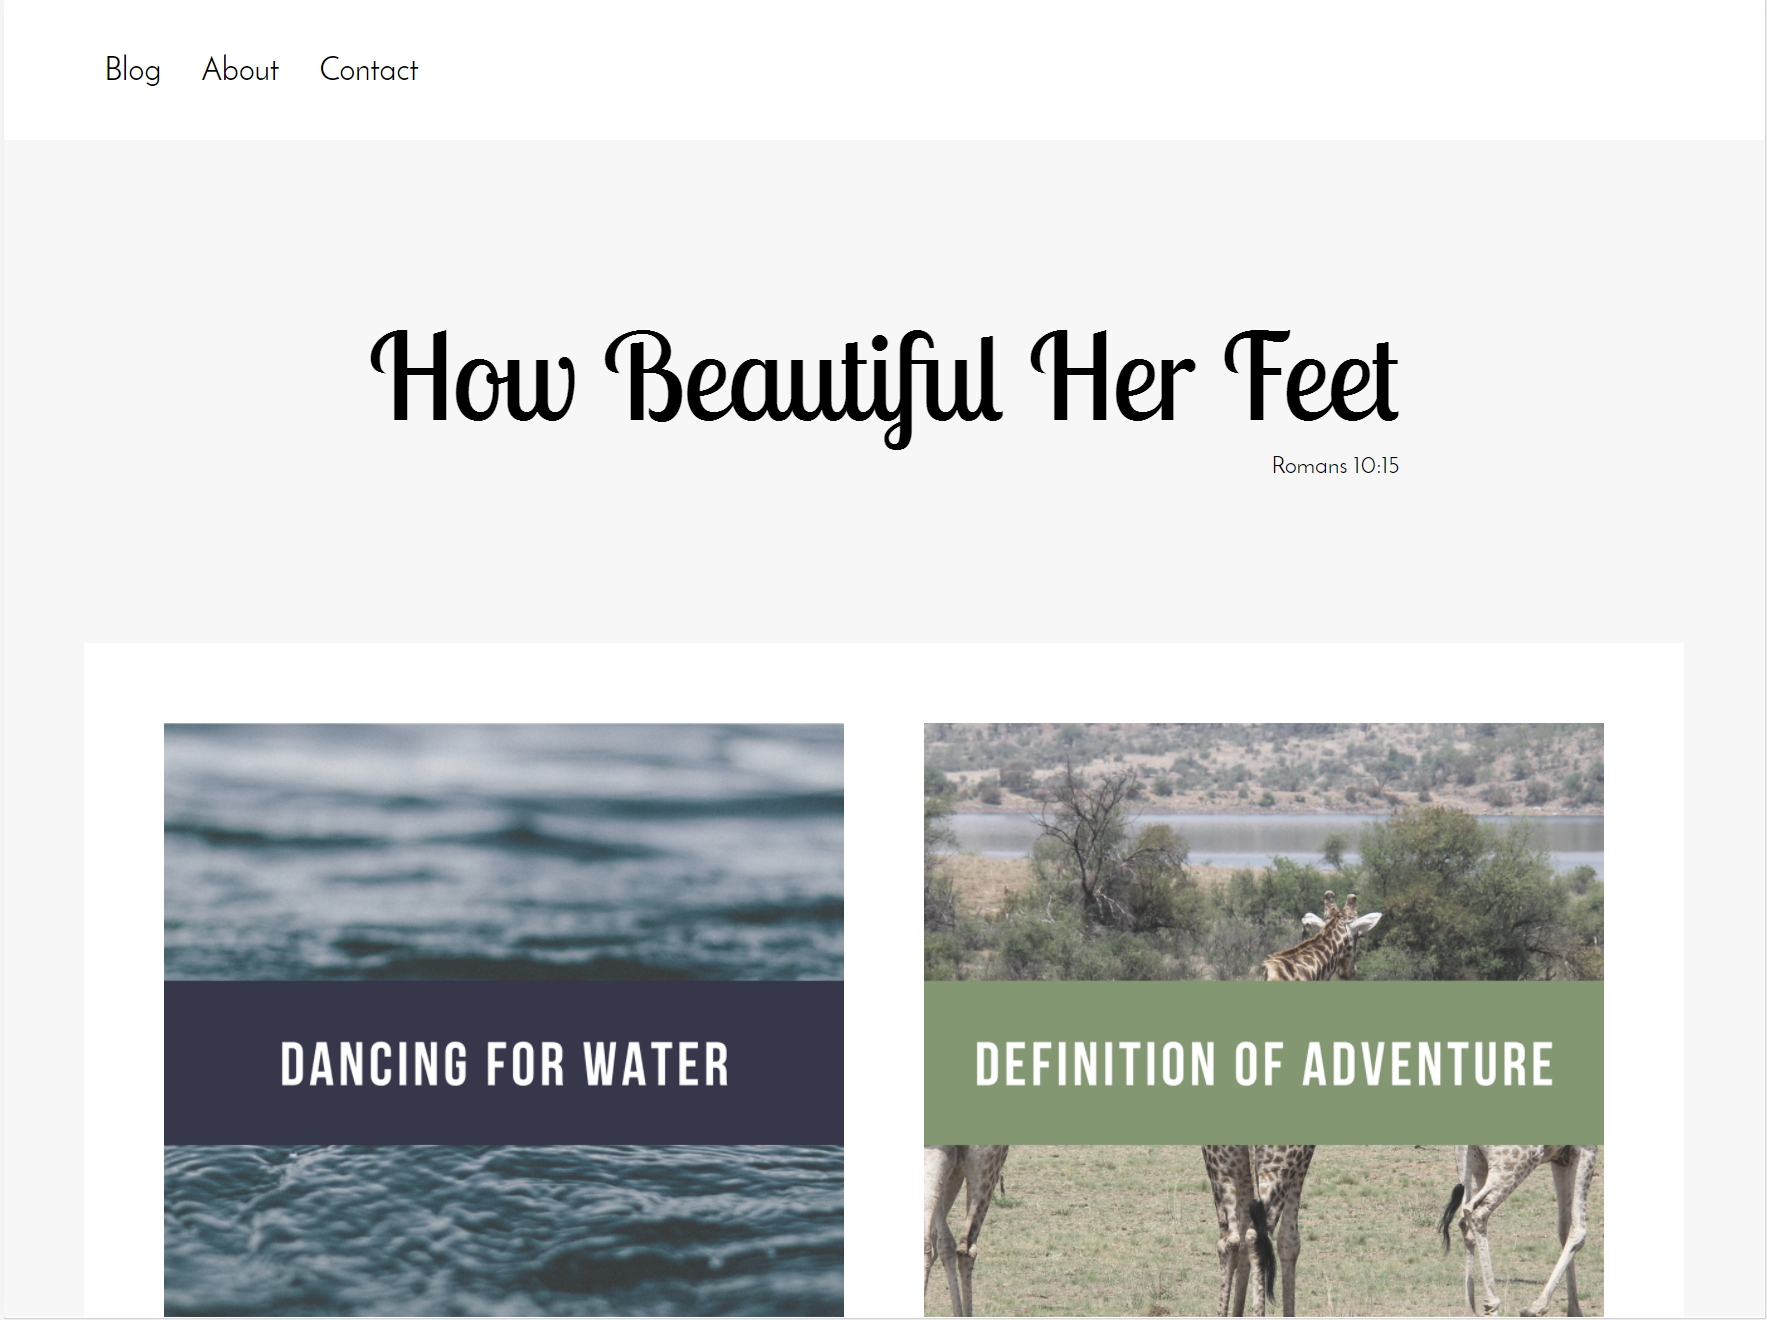
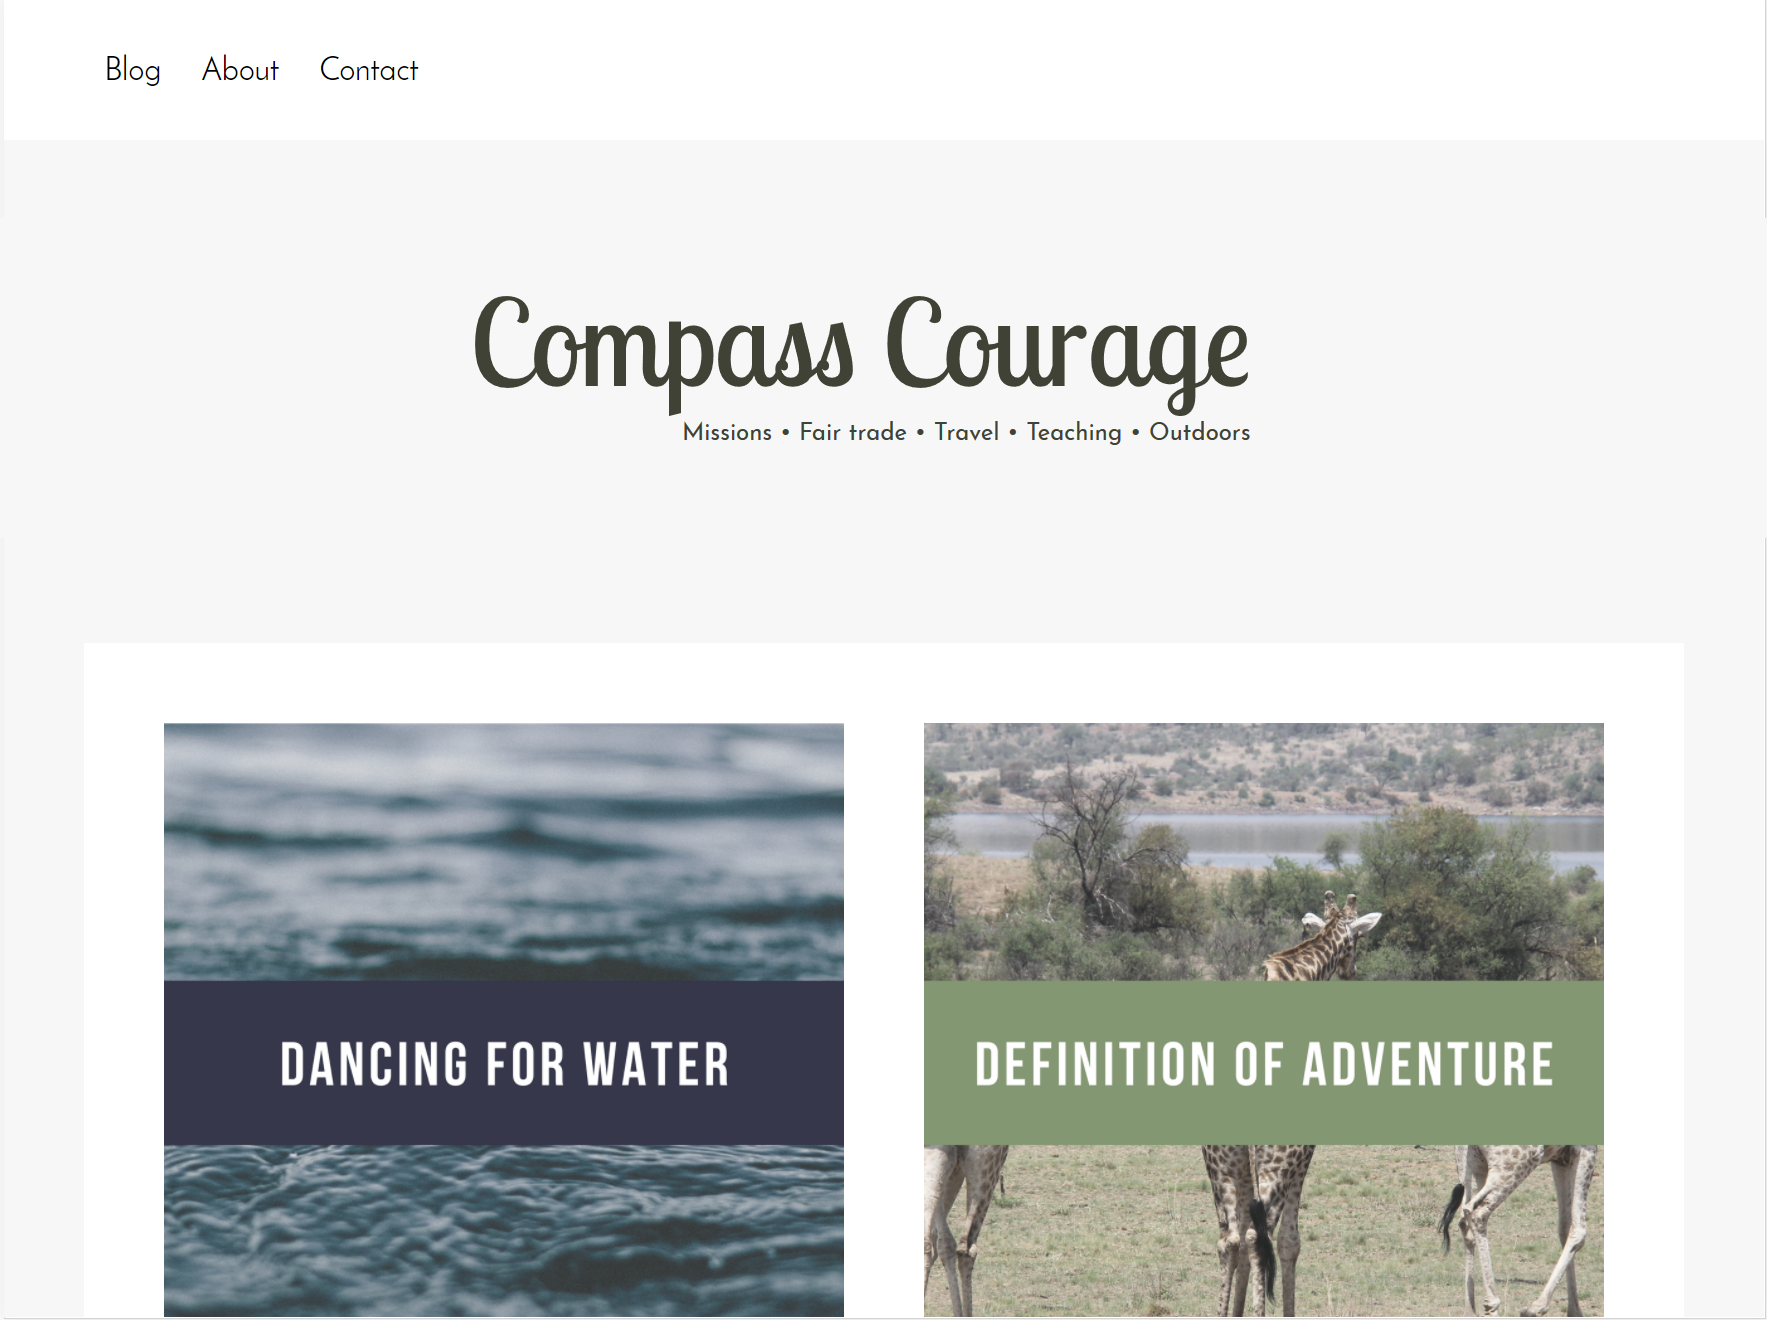
update theme name and screenshot.

Changed region(s): [[0.1868, 0.2174, 0.8093, 0.3727], [0.996, 0.1864, 1.0, 0.4038]]

diff --git a/README.md b/README.md
@@ -1,5 +1,5 @@
-# How Beautiful Her Feet
+# Compass Courage (WordPress Theme)
 
-A custom WordPress theme developed specifically for [HowBeautifulHerFeet.com](http://howbeautifulherfeet.com/).
+A custom WordPress theme developed specifically for [CompassCourage.com](http://compasscourage.com/).
 
 ![Screenshot](screenshot.png)
